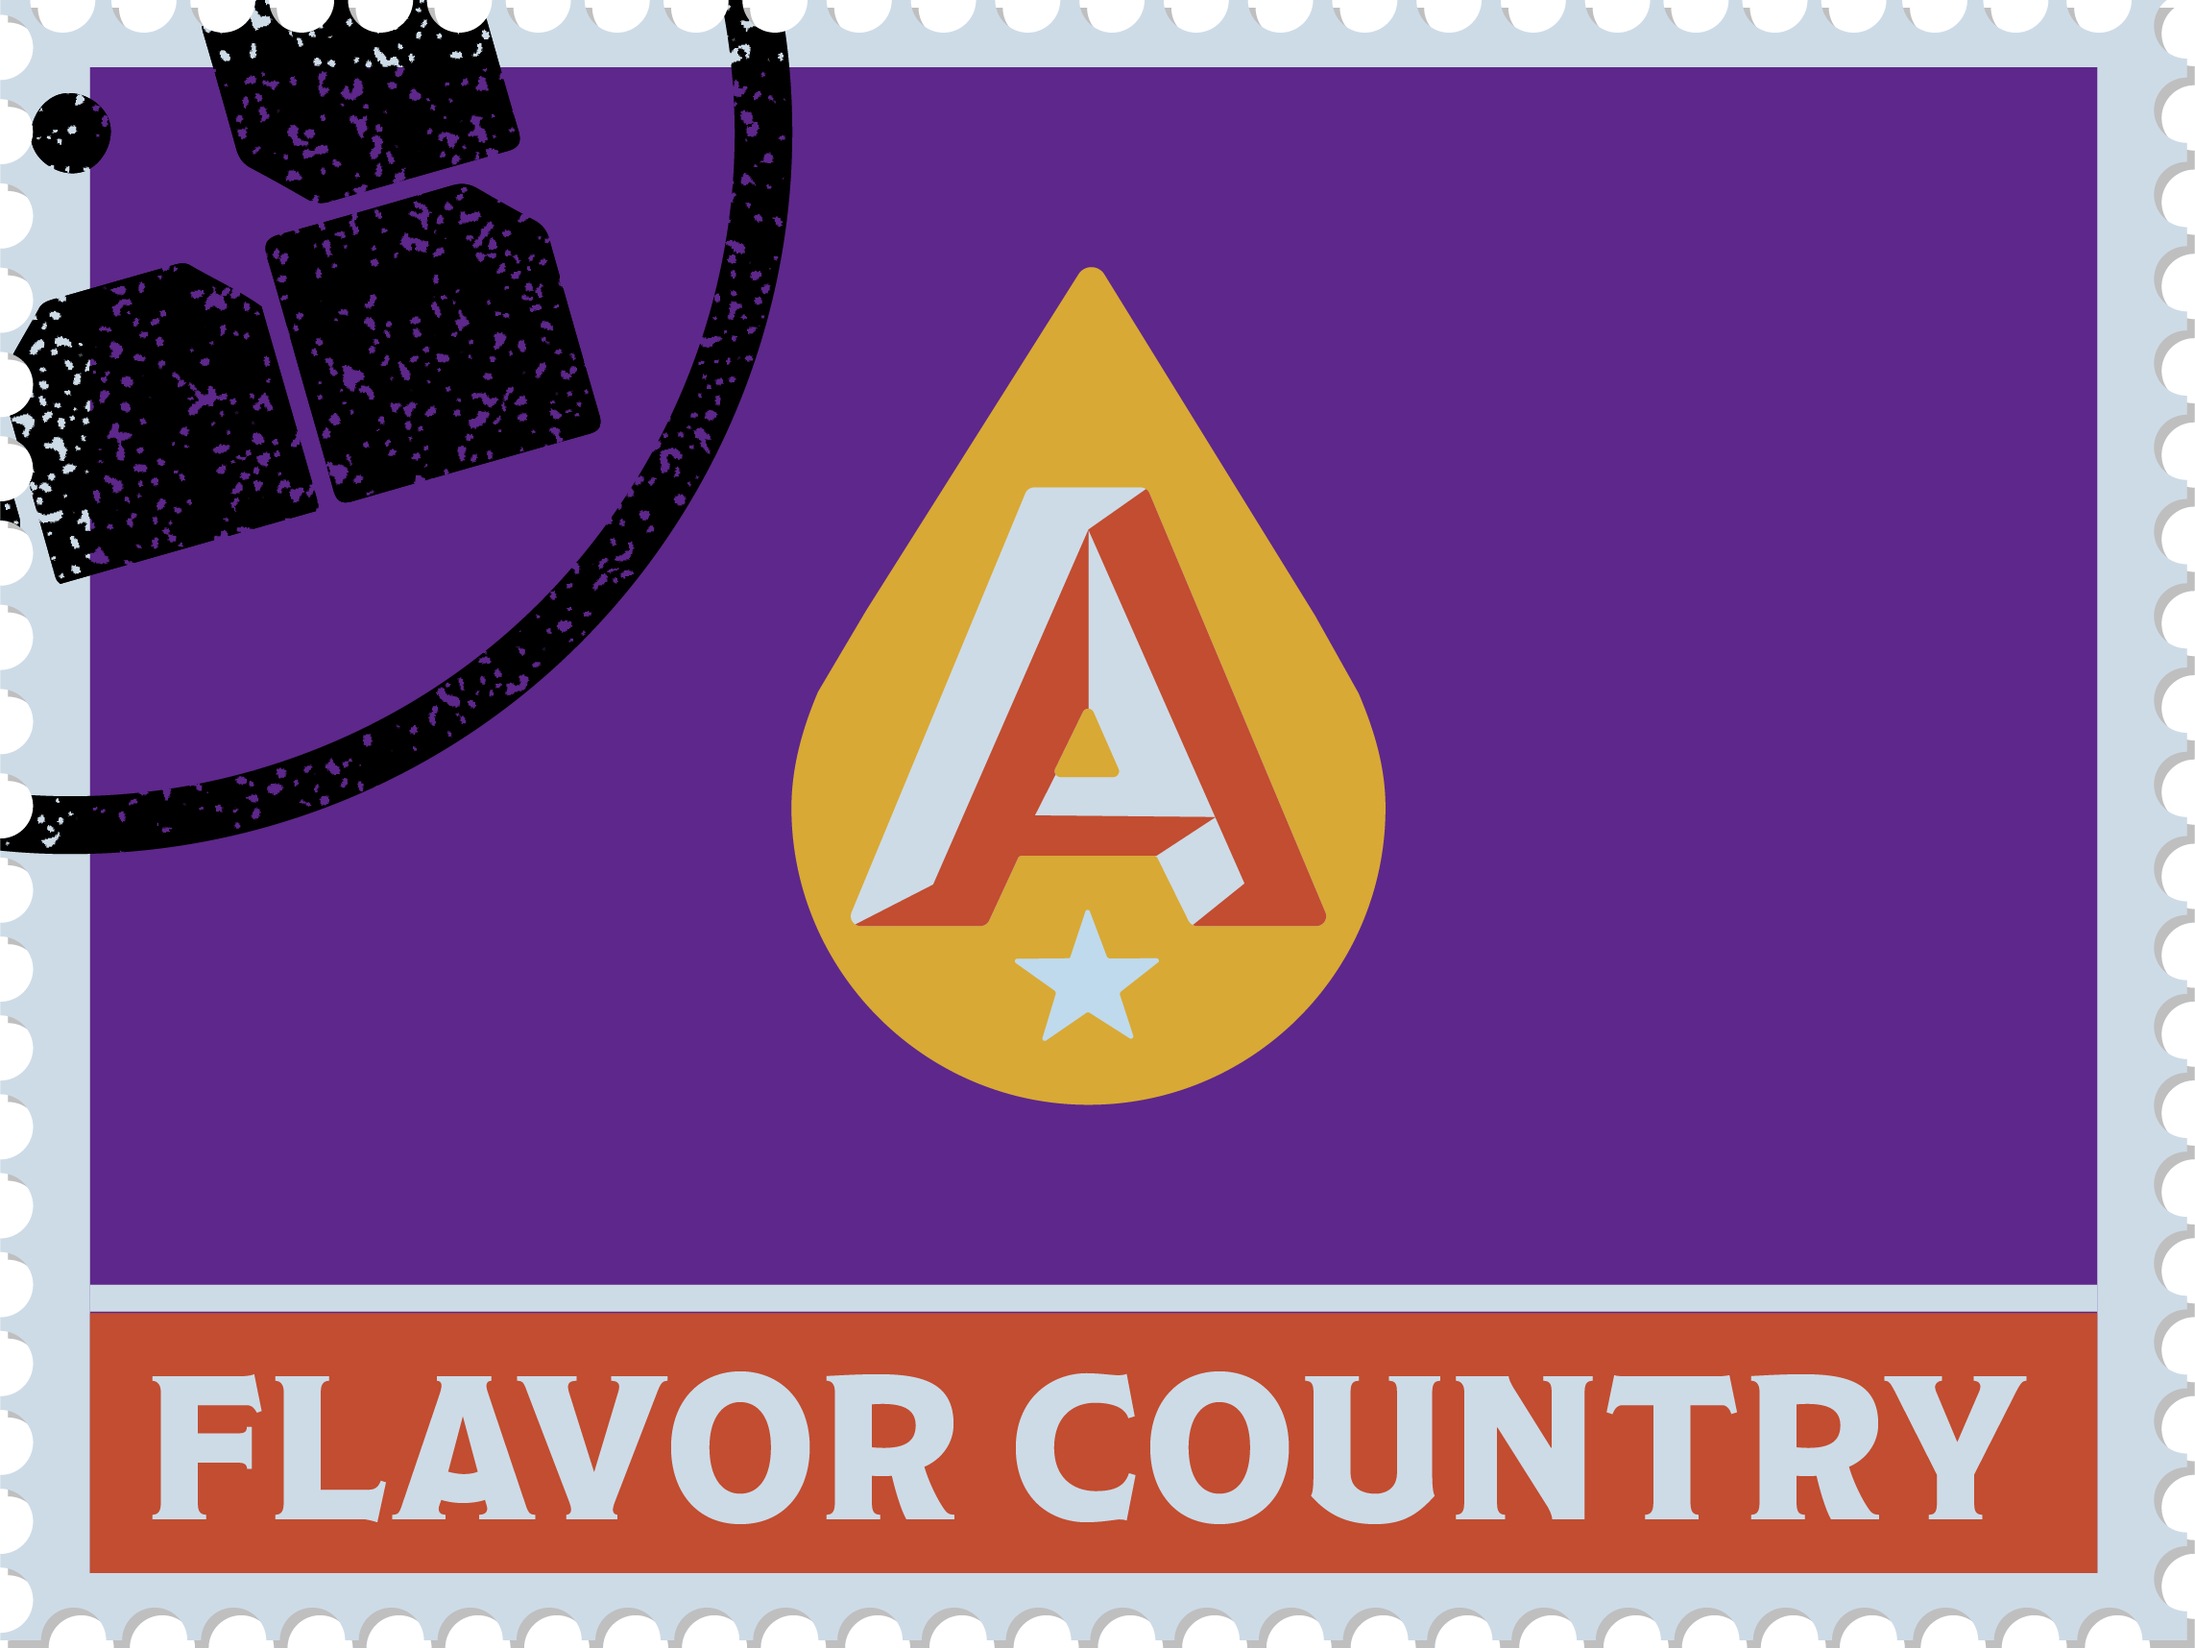
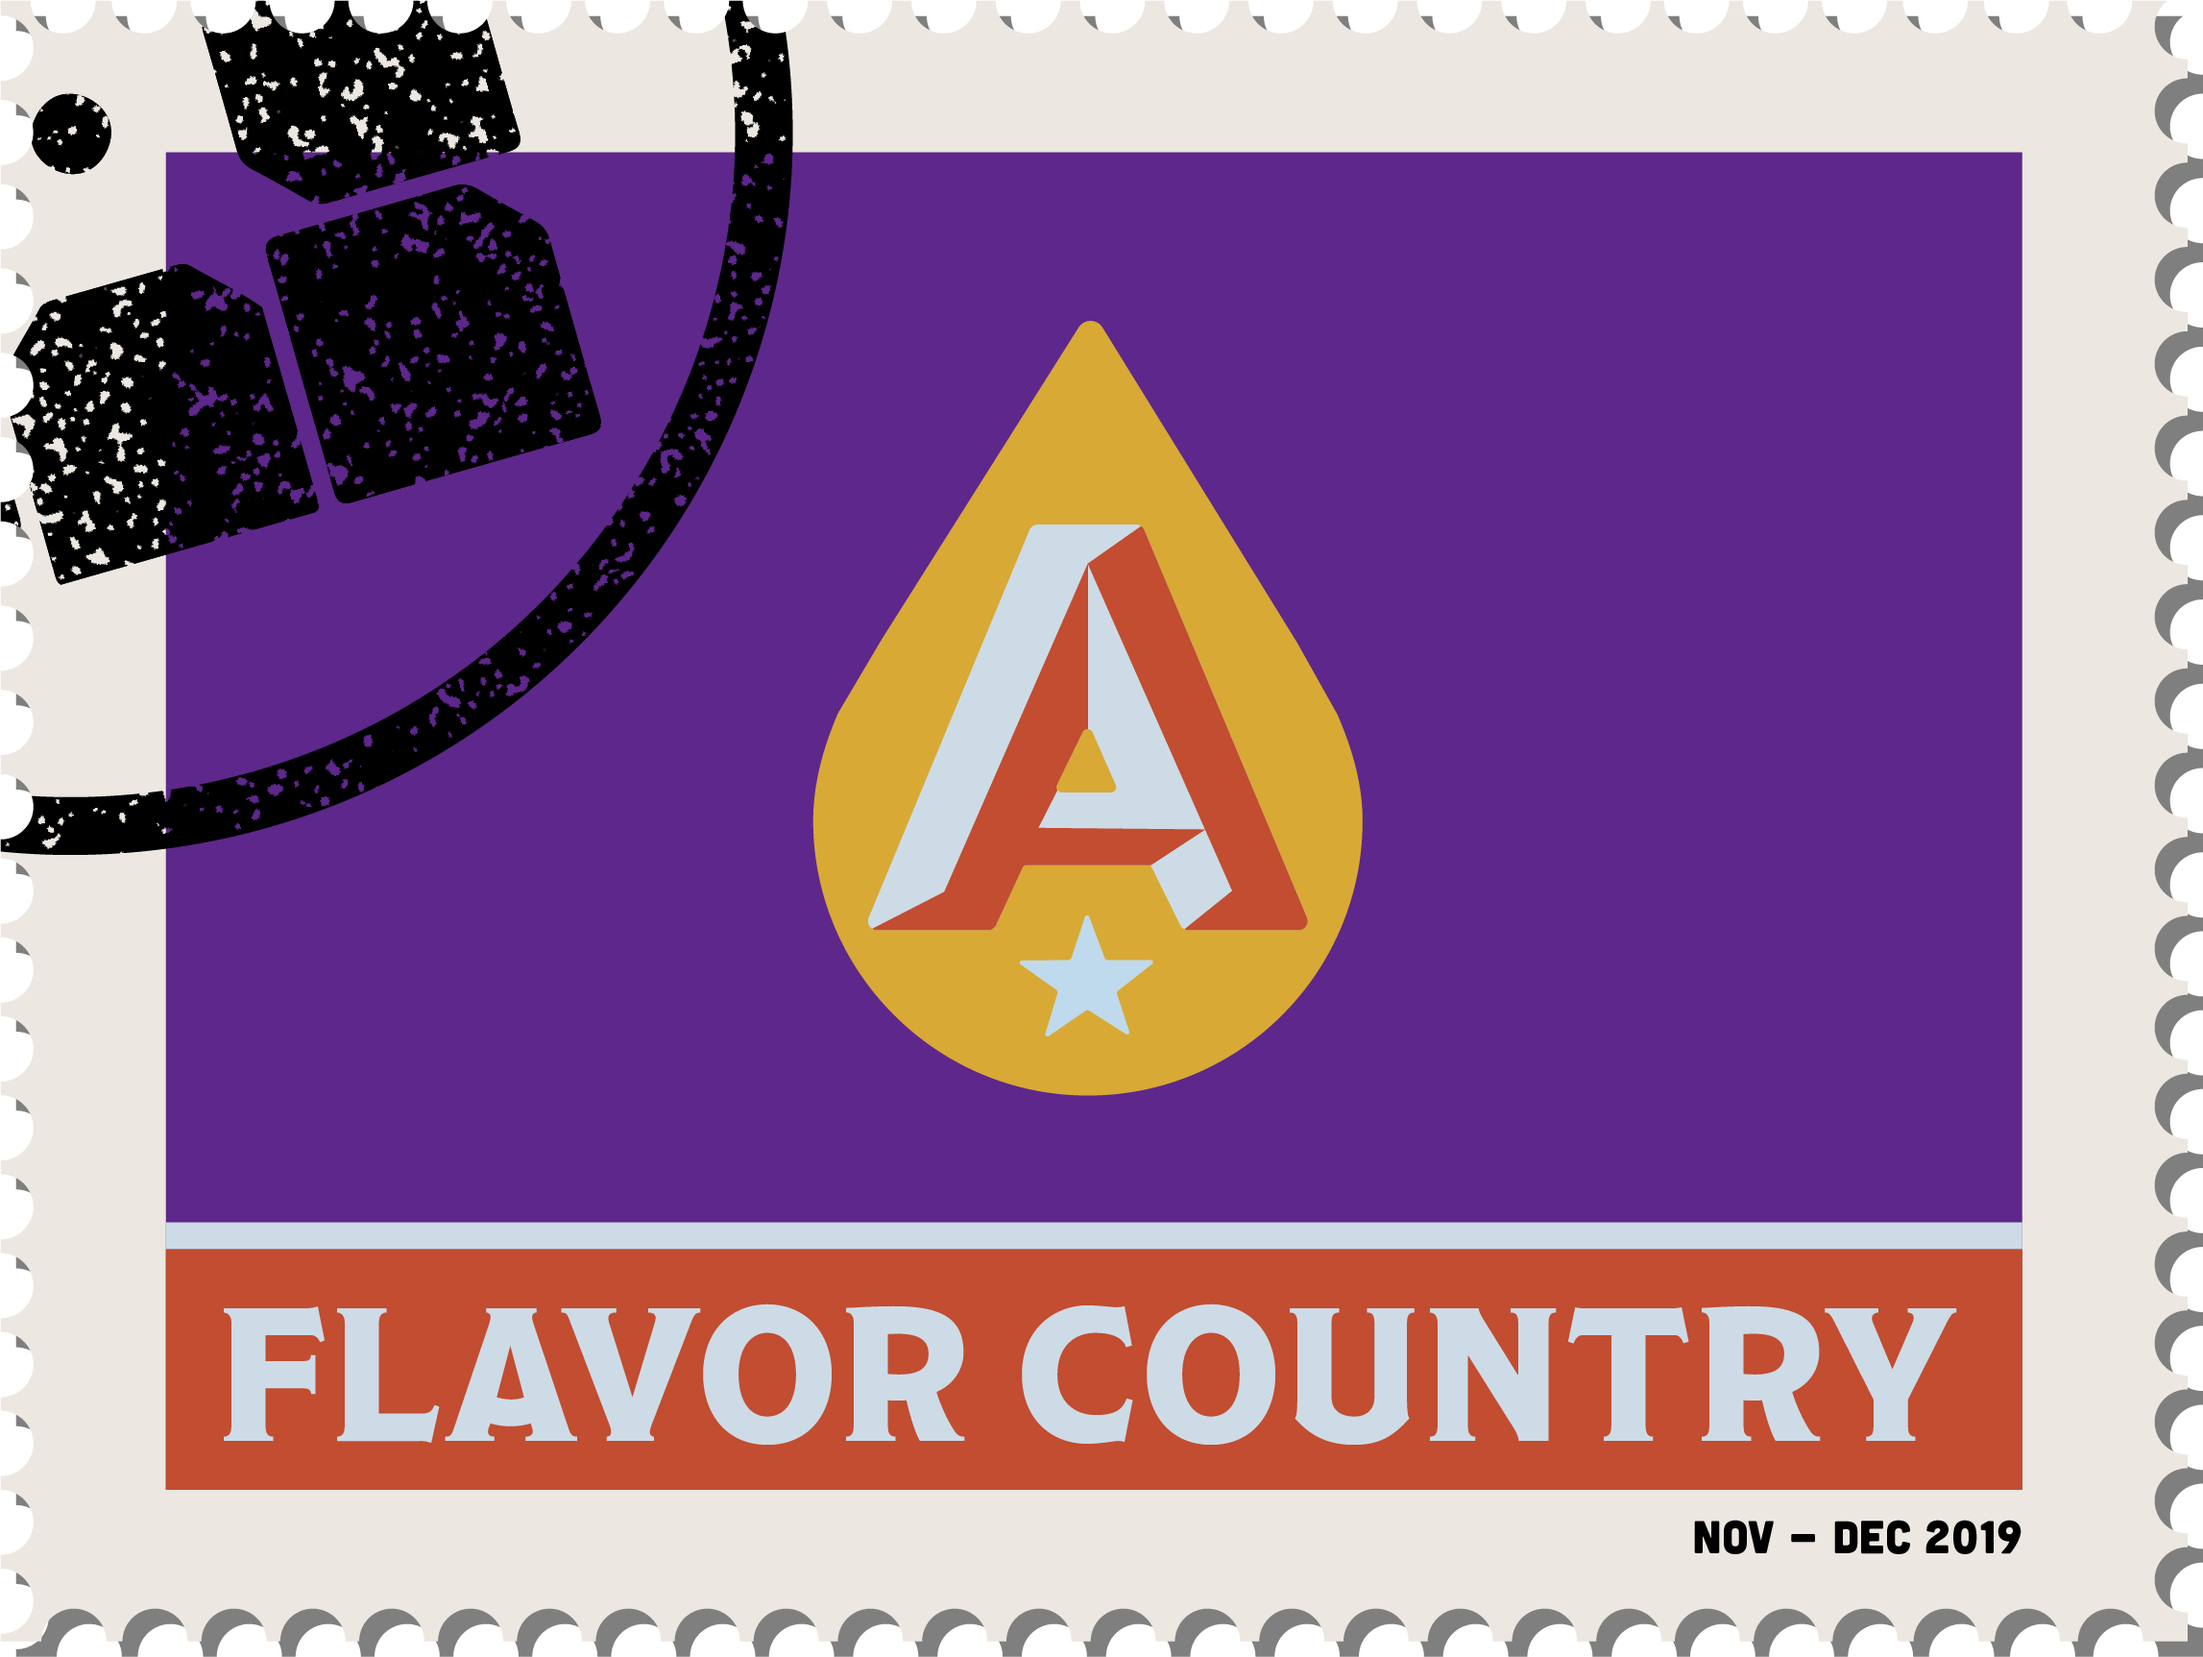
add updated stamps, with older beers too

diff --git a/src/App.jsx b/src/App.jsx
@@ -1,43 +1,30 @@
 import React from 'react';
 
-import Card from './components/Card';
-
 import styles from './App.module.scss';
+import 'bulma/css/bulma.css';
 
 import flavorCountry from './beer_assets/flavor-country.png';
 import zoe from './beer_assets/zoe.png';
+import elecFish from './beer_assets/elec-fish.png';
+import liveOakHef from './beer_assets/live-oak-hef.png';
 
 
 const App = () => (
   <div className={styles.wrapper}>
     <h1>11th Floor Kegerator</h1>
     <hr/>
-    <h3>Currently On Tap:</h3>
-    <div className="columns container">
+    <div className="columns">
       <div className="column">
-        <Card
-          header="Tap 1"
-          image={flavorCountry}
-          title="ABW Flavor Country"
-          description='"When we began in 2011 it was impossible to brew this Hoppy Pale Ale. The ingredients weren’t available and the science didn’t exist. Oil rich lupulin powder was just a dream. It brings intense flavor but doesn’t linger, drinks like a hop forward pale ale but doesn’t blow you up and every sip leaves you craving more. It’s so special we had to invent a whole new country to explain it. Welcome."'
-          stats={[
-          'ABV: 5.9%',
-          'IBU: 35',
-          ]}
-        />
+        <img src={flavorCountry}/>
       </div>
       <div className="column">
-        <Card
-          header="Tap 2"
-          image={zoe}
-          title="H&G The One They Call Zoe"
-          description='"Pale Lager - Zoe is brewed in a mildly traditional manner, very similar to many of the German lagers of the old world but dry-hopped to add an extra layer of complexity. This beer is based on pale and Vienna malts, light to golden in color with a beautiful white layer of foam resting on top, constantly delivering floral and citrus dry-hop aromatics with every sip. Zoe is meant to be paired with, well, life! With notes of lightly toasted bread, floral hops and an incredibly smooth finish we hope that Zoe is everything that you’ve been searching for in a pale lager."'
-          stats={[
-            'ABV: 5.1%',
-            'IBU: 18',
-            'SRM: 18',
-          ]}
-        />
+        <img src={zoe}/>
+      </div>
+      <div className="column">
+        <img src={elecFish}/>
+      </div>
+      <div className="column">
+        <img src={liveOakHef} />
       </div>
     </div>
   </div>

diff --git a/src/components/Card.jsx b/src/components/Card.jsx
@@ -1,21 +1,9 @@
 import React from 'react';
 import 'bulma/css/bulma.css';
 
-const Card = ({ header, image, title, description, stats }) => (
+const Card = ({ image }) => (
   <div className="card">
-    <div className="card-header">
-      <p className="card-header-title is-centered">{header}</p>
-    </div>
     <div className="card-image"><img src={image} alt=""/></div>
-    <div className="card-content is-centered">
-      <p className="title is-centered">{title}</p>
-      <p className="is-2"><i>{description}</i></p>
-      <div className="card-footer is-centered">
-        {
-          stats.map(stat => <div key={stat}><b>{stat}</b></div>)
-        }
-      </div>
-    </div>
   </div>
 )
 

diff --git a/src/App.module.scss b/src/App.module.scss
@@ -1,6 +1,10 @@
+html {
+  background-color: #637f9b !important;
+}
+
 .wrapper {
   font-family: "modesto-expanded", serif;
-  color: rgb(49, 91, 138);
+  color: #ece7e0;
   display: flex;
   align-items: center;
   justify-content: space-between;
@@ -32,7 +36,7 @@
   hr {
     width: 85%;
     height: 2px;
-    background-color: black;
+    background-color: #ece7e0;
   }
 
   & > * {
